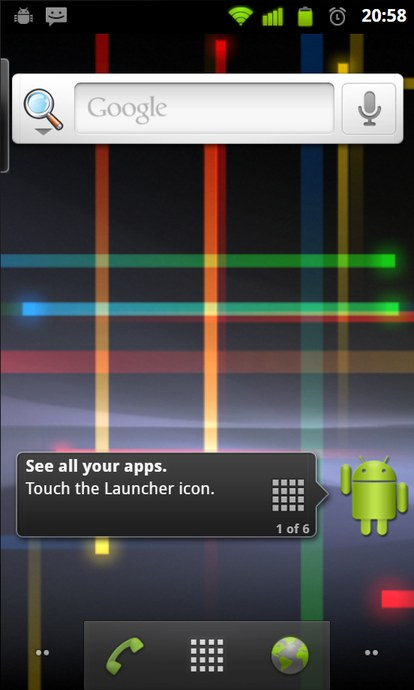
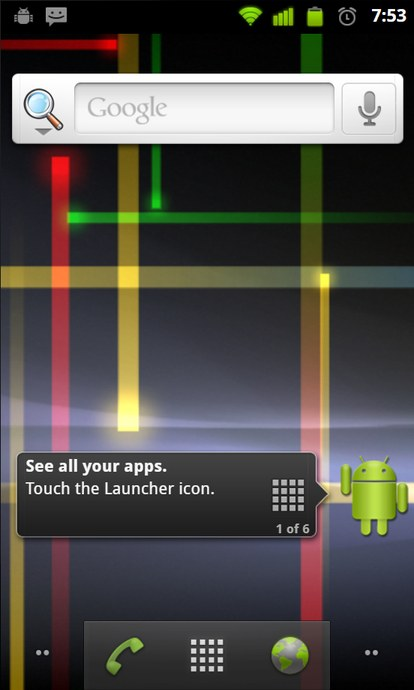
Nexus S 2.3.6 landing shot from the current simulator, its Nexus wallpaper pulses picked for the part the covers show; OG cover regenerated

diff --git a/index.html b/index.html
@@ -12,7 +12,7 @@
   <meta property="og:title" content="Android Time Machine – régi Androidok a böngészőben">
   <meta property="og:description" content="Android 2.3–5.1 a Nexus S-en, a Galaxy Nexuson, a Nexus 4-en, a Nexus 5-ön és a Nexus 6-on: kezdőképernyő, értesítések, beállítások és alkalmazások – telepítés nélkül.">
   <meta property="og:url" content="https://android.levente.net/">
-  <meta property="og:image" content="https://android.levente.net/assets/og-cover.jpg?v=11">
+  <meta property="og:image" content="https://android.levente.net/assets/og-cover.jpg?v=12">
   <meta property="og:image:type" content="image/jpeg">
   <meta property="og:image:width" content="1200">
   <meta property="og:image:height" content="630">
@@ -21,7 +21,7 @@
   <link rel="icon" type="image/svg+xml" href="favicon.svg">
   <link rel="stylesheet" href="styles.css?v=20">
   <script defer src="i18n.js?v=90"></script>
-  <script defer src="versions/catalog.js?v=28"></script>
+  <script defer src="versions/catalog.js?v=29"></script>
   <script defer src="app.js?v=11"></script>
 </head>
 <body>

diff --git a/versions/2.3.6/index.html b/versions/2.3.6/index.html
@@ -12,7 +12,7 @@
   <meta property="og:title" content="Android 2.3.6 Gingerbread – Nexus S szimulátor">
   <meta property="og:description" content="Érintőgombok az üveg alatt, csúszkás zárolóképernyő, a Menü gombbal nyíló opciópanelek, zöld állapotikonok és a zombi Gingerbread húsvéti tojás.">
   <meta property="og:url" content="https://android.levente.net/versions/2.3.6/">
-  <meta property="og:image" content="https://android.levente.net/assets/og-cover.jpg?v=11">
+  <meta property="og:image" content="https://android.levente.net/assets/og-cover.jpg?v=12">
   <meta property="og:image:type" content="image/jpeg">
   <meta property="og:image:width" content="1200">
   <meta property="og:image:height" content="630">

diff --git a/versions/4.0.4/index.html b/versions/4.0.4/index.html
@@ -12,7 +12,7 @@
   <meta property="og:title" content="Android 4.0.4 Ice Cream Sandwich – Galaxy Nexus szimulátor">
   <meta property="og:description" content="Holo dizájn, képernyős navigációs gombok, mappák, kamera a zárolóképernyőről és a Nyandroid húsvéti tojás.">
   <meta property="og:url" content="https://android.levente.net/versions/4.0.4/">
-  <meta property="og:image" content="https://android.levente.net/assets/og-cover.jpg?v=11">
+  <meta property="og:image" content="https://android.levente.net/assets/og-cover.jpg?v=12">
   <meta property="og:image:type" content="image/jpeg">
   <meta property="og:image:width" content="1200">
   <meta property="og:image:height" content="630">

diff --git a/versions/5.1.1/index.html b/versions/5.1.1/index.html
@@ -12,7 +12,7 @@
   <meta property="og:title" content="Android 5.1.1 Lollipop – Nexus 6 szimulátor">
   <meta property="og:description" content="Material Design, Google Now Launcher, felugró értesítések, Áttekintés-kártyák, Smart Lock és a Lollipop Land húsvéti tojás.">
   <meta property="og:url" content="https://android.levente.net/versions/5.1.1/">
-  <meta property="og:image" content="https://android.levente.net/assets/og-cover.jpg?v=11">
+  <meta property="og:image" content="https://android.levente.net/assets/og-cover.jpg?v=12">
   <meta property="og:image:type" content="image/jpeg">
   <meta property="og:image:width" content="1200">
   <meta property="og:image:height" content="630">

diff --git a/versions/4.3/index.html b/versions/4.3/index.html
@@ -12,7 +12,7 @@
   <meta property="og:title" content="Android 4.3 Jelly Bean – Nexus 4 szimulátor">
   <meta property="og:description" content="Kinyitható értesítések, gyorsbeállítások, widgetek a zárolóképernyőn, Daydream és a BeanBag húsvéti tojás.">
   <meta property="og:url" content="https://android.levente.net/versions/4.3/">
-  <meta property="og:image" content="https://android.levente.net/assets/og-cover.jpg?v=11">
+  <meta property="og:image" content="https://android.levente.net/assets/og-cover.jpg?v=12">
   <meta property="og:image:type" content="image/jpeg">
   <meta property="og:image:width" content="1200">
   <meta property="og:image:height" content="630">

diff --git a/versions/4.4.4/index.html b/versions/4.4.4/index.html
@@ -12,7 +12,7 @@
   <meta property="og:title" content="Android 4.4.4 KitKat – Nexus 5 szimulátor">
   <meta property="og:description" content="Google Now Launcher, Google Now, Hangouts, Chrome, áttetsző rendszersávok és a Dessert Case húsvéti tojás.">
   <meta property="og:url" content="https://android.levente.net/versions/4.4.4/">
-  <meta property="og:image" content="https://android.levente.net/assets/og-cover.jpg?v=11">
+  <meta property="og:image" content="https://android.levente.net/assets/og-cover.jpg?v=12">
   <meta property="og:image:type" content="image/jpeg">
   <meta property="og:image:width" content="1200">
   <meta property="og:image:height" content="630">

diff --git a/versions/catalog.js b/versions/catalog.js
@@ -9,7 +9,7 @@ window.ANDROID_VERSIONS = [
     description: 'Touch keys under the glass, the SlidingTab lock screen, option panels behind the Menu key, green status icons and the zombie Gingerbread easter egg.',
     url: 'versions/2.3.6/',
     status: 'available',
-    art: {shot: 'landing-home.jpg?v=5', phone: 'nexuss'}
+    art: {shot: 'landing-home.jpg?v=6', phone: 'nexuss'}
   },
   {
     id: '4.0.4',
